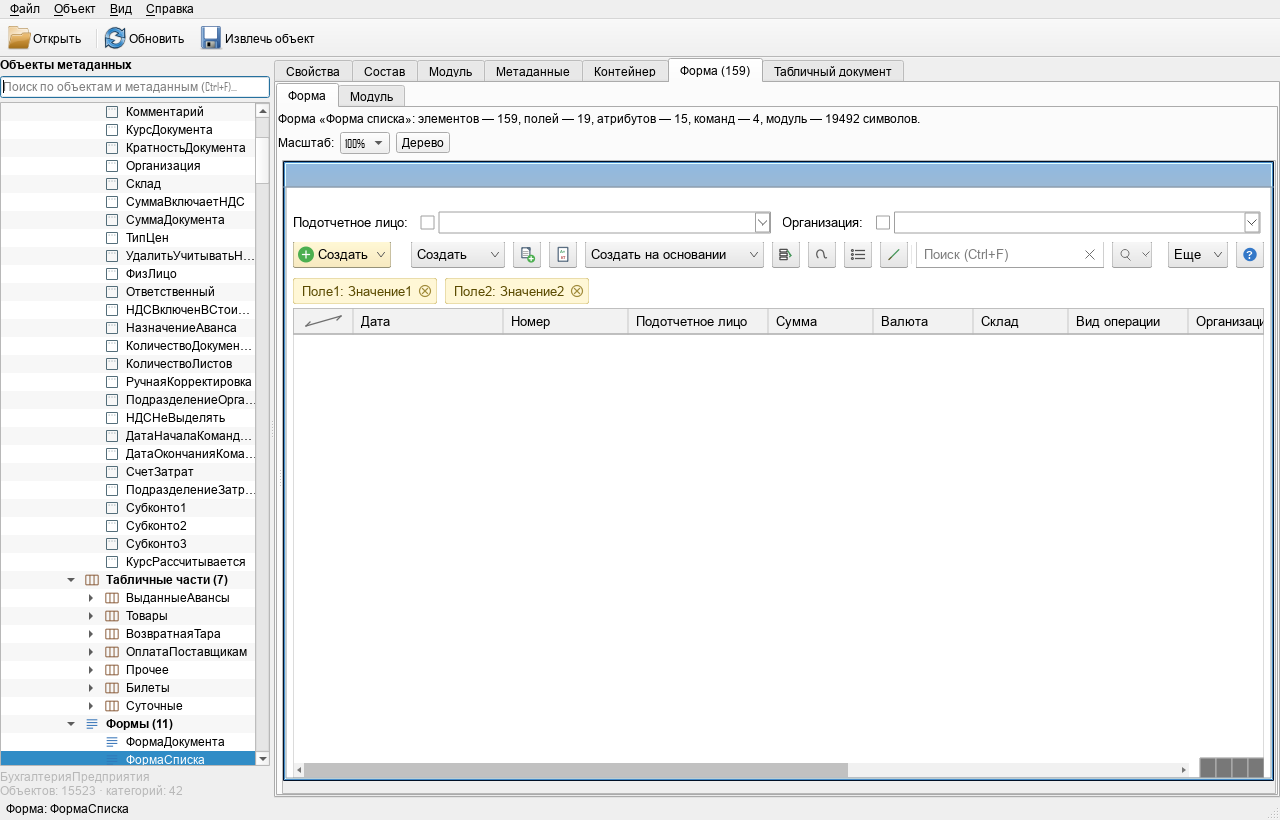
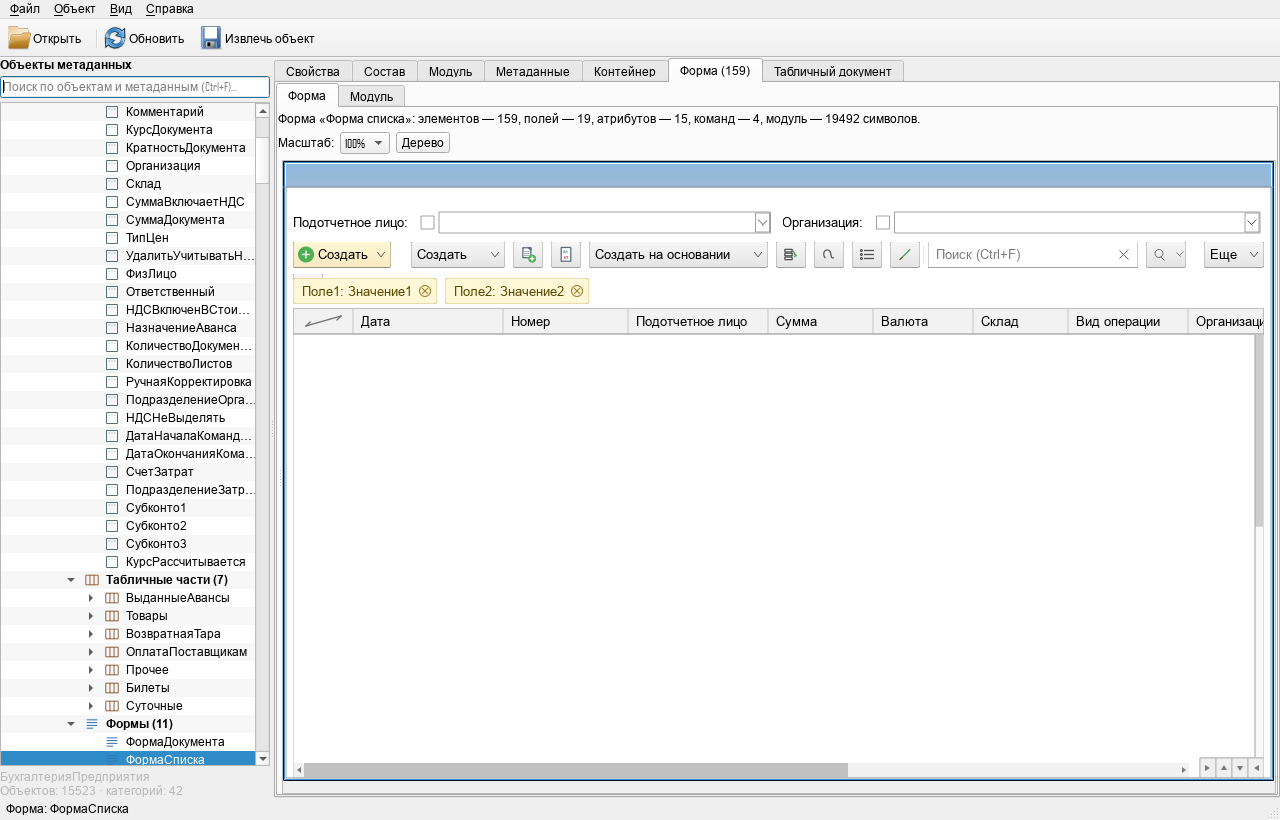
fix(forms): прокрутка и отступы окна конфигуратора

diff --git a/src/gui/controls/TableControl.cpp b/src/gui/controls/TableControl.cpp
@@ -86,6 +86,20 @@ void paintTable(QPainter &painter, const TableVisual &visual,
     painter.setPen(FormStyle::tableBorder);
     painter.drawRect(QRectF(rect.left(), rect.top(), rect.width(), tableHeight));
 
+    // Вертикальная полоса прокрутки вдоль правого края таблицы.
+    const QRectF verticalTrack(rect.right() - 9.0,
+                               rect.top() + headerHeight + 1.0, 8.0,
+                               std::max(1.0, tableHeight - headerHeight
+                                   - scrollHeight - 2.0));
+    painter.fillRect(verticalTrack, QColor(248, 248, 248));
+    const double verticalThumb = std::max(24.0, verticalTrack.height() * 0.45);
+    painter.fillRect(QRectF(verticalTrack.left(), verticalTrack.top(),
+                            verticalTrack.width(),
+                            std::min(verticalThumb, verticalTrack.height())),
+                     QColor(205, 205, 205));
+    painter.setPen(QPen(QColor(160, 160, 160), 1.0));
+    painter.drawLine(verticalTrack.topLeft(), verticalTrack.bottomLeft());
+
     if (horizontalScroll) {
         const double cornerWidth = 64.0;
         const QRectF track(rect.left() + 1.0,
@@ -102,13 +116,14 @@ void paintTable(QPainter &painter, const TableVisual &visual,
         painter.fillRect(corner, QColor(240, 240, 240));
         painter.setPen(FormStyle::tableBorder);
         painter.drawRect(corner);
-        painter.setBrush(QColor(120, 120, 120));
         for (int i = 0; i < 4; ++i) {
             const QRectF cell(corner.left() + i * 16.0, corner.top(), 16.0, 20.0);
             painter.setPen(FormStyle::tableBorder);
+            painter.setBrush(QColor(240, 240, 240));
             painter.drawRect(cell);
             const QPointF c = cell.center();
             painter.setPen(Qt::NoPen);
+            painter.setBrush(QColor(120, 120, 120));
             QPolygonF arrow;
             switch (i) {
             case 0:
@@ -133,8 +148,8 @@ void paintTable(QPainter &painter, const TableVisual &visual,
                 break;
             }
             painter.drawPolygon(arrow);
-            painter.setPen(FormStyle::tableBorder);
         }
+        painter.setBrush(Qt::NoBrush);
     }
 }
 

diff --git a/src/gui/FormView.cpp b/src/gui/FormView.cpp
@@ -430,7 +430,7 @@ private:
                 && icon != ButtonIcon::Create && icon != ButtonIcon::CreateBasedOn
                 && icon != ButtonIcon::Print;
             if (iconOnly)
-                return 28.0;
+                return 30.0;
             double width = m_metrics.horizontalAdvance(buttonTitle(item)) + 16.0;
             if (icon != ButtonIcon::None)
                 width += 22.0;
@@ -440,7 +440,7 @@ private:
         }
         case Type::Search:
             if (item.name.contains(QStringLiteral("СтрокаПоиска")))
-                return 180.0;
+                return 200.0;
             if (item.name.contains(QStringLiteral("УправлениеПоиском")))
                 return 40.0;
             return 40.0;
@@ -456,7 +456,7 @@ private:
                     && icon != ButtonIcon::CreateBasedOn
                     && icon != ButtonIcon::Print;
                 if (iconOnly)
-                    return 28.0;
+                    return 30.0;
                 const QString title = item.synonym.isEmpty()
                     ? humanizeCommand(item.name) : item.synonym;
                 if (item.name == QStringLiteral("Еще"))
@@ -894,7 +894,7 @@ private:
             const bool searchOptions = item->type == v8reader::FormItem::Type::Search
                 && item->name.contains(QStringLiteral("УправлениеПоиском"));
             if (!searchOptions)
-                width = std::max(28.0, width);
+                width = std::max(30.0, width);
             if (dropDownButtons.contains(item))
                 width += 12.0;
             return width;
@@ -1615,7 +1615,7 @@ private:
             ? viewportHeight / m_scale : 0.0;
         const double titleBarHeight = 26.0;
         const double targetContentHeight = std::max(0.0,
-            viewportLogical - titleBarHeight - 44.0);
+            viewportLogical - titleBarHeight - 100.0);
 
         LayoutEngine engine(*m_document, contentWidth);
         double contentHeight = 0.0;

diff --git a/CHANGELOG.md b/CHANGELOG.md
@@ -99,6 +99,8 @@
   почти всё окно.
 - У предпросмотра появилась синяя рамка окна конфигуратора с пустой полосой
   заголовка, как на эталоне; быстрые отборы делят строку поровну.
+- Добавлена вертикальная полоса прокрутки таблицы, исправлен уголок из
+  четырёх кнопок (светлый фон и стрелки), снизу оставлен отступ окна.
 - В формах элементов справочников добавлены стандартные команды
   «Записать и закрыть» и «Записать»; командная панель таких форм
   определяется и без отдельной группы кнопок.
